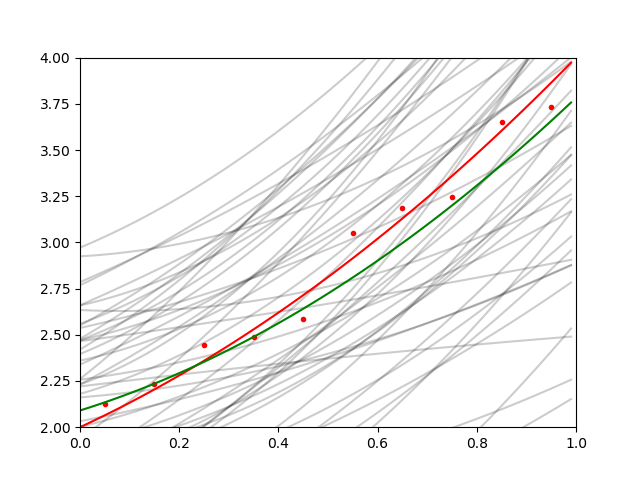
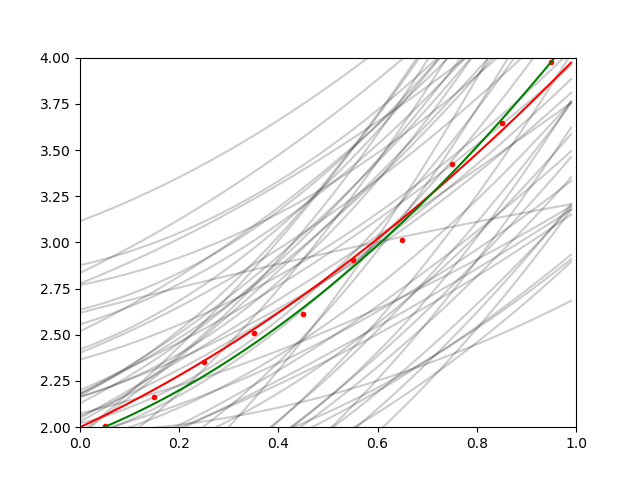
tidied up linear JSurf examples

diff --git a/linear_tests/genLinear_JSurface.py b/linear_tests/genLinear_JSurface.py
@@ -5,13 +5,36 @@ from genLinear import *
 
 import sys
 
-class linearModelEnsemble(linearModelEnsemble):
+class linearModelEnsemble_JSurf(linearModelEnsemble):
+
+    def __init__(self, coefs_truth, coefs_prior, uncert_prior, nens, nobs, obs_uncert ):
+        super().__init__( coefs_truth, coefs_prior, uncert_prior, nens, nobs, obs_uncert )
+        self.R_inv=self.get_R_inv()
+        self.B_inv=self.get_B_inv()
+
+    def surface_looper(self, range1, range2):
+        start,stop,step=range1
+        range1=np.arange(start,stop,step)
+        start,stop,step=range2
+        range2=np.arange(start,stop,step)
+        surf=np.zeros((len(range1),len(range2)))
+        for (n,i) in enumerate(range1):
+            for (m,j) in enumerate(range2):                
+                yield (n,m,i,j)       
     
-    def R_inv(self):
+    def get_blank_surface(self,range1, range2):
+        start,stop,step=range1
+        range1=np.arange(start,stop,step)
+        start,stop,step=range2
+        range2=np.arange(start,stop,step)
+        surf=np.zeros((len(range1),len(range2)))
+        return surf
+    
+    def get_R_inv(self):
         R_inv=np.eye(len(self.obs_y))*1./self.obs_uncert
         return R_inv
     
-    def B_inv(self):
+    def get_B_inv(self):
         B_inv=np.eye(len(self.uncert_prior))
         for i in range(len(self.uncert_prior)):
             B_inv[i,i]=1./self.uncert_prior[i]
@@ -21,77 +44,42 @@ class linearModelEnsemble(linearModelEnsemble):
         """get the value of the 4DVar cost function
         at position x
         """
-        R_inv=self.R_inv()
-        B_inv=self.B_inv()
-        
-        #background term
-        t1=np.matmul(B_inv, np.asarray(params)-np.asarray(self.coefs_prior))
+        #background term:
+        t1=np.matmul(self.B_inv, np.asarray(params)-np.asarray(self.coefs_prior))
         t1=np.matmul(np.asarray(params)-np.asarray(self.coefs_prior), t1)
-
-        #observation term
+        #observation term:
         hx=linearModel(params)
-        t2=np.matmul(R_inv, np.asarray(hx.eval(self.obs_x))-np.asarray(self.obs_y))
+        t2=np.matmul(self.R_inv, np.asarray(hx.eval(self.obs_x))-np.asarray(self.obs_y))
         t2=np.matmul(np.asarray(hx.eval(self.obs_x))-np.asarray(self.obs_y), t2)
-
         return((t1+t2)/2.)
     
     def get_JSurface_4DVar(self, dims=(0,1),range1=(0,2,0.1),range2=(0,2,0.1)):
-        
-        start,stop,step=range1
-        range1=np.arange(start,stop,step)
-        start,stop,step=range2
-        range2=np.arange(start,stop,step)
-        
-        surf=np.zeros((len(range1),len(range2)))
-        
-        for (n,i) in enumerate(range1):
-            for (m,j) in enumerate(range2):
-                params=copy(self.truth.coefs)
-                params[dims[0]]=i
-                params[dims[1]]=j
-                surf[n,m]=self.get_J_4DVar(params)
-                
+        surf=self.get_blank_surface(range1,range2)
+        for (n,m,i,j) in self.surface_looper(range1,range2):
+            params=copy(self.truth.coefs)
+            params[dims[0]]=i
+            params[dims[1]]=j
+            surf[n,m]=self.get_J_4DVar(params)
         return surf
-
 
     def get_JSurface_4DEnVar(self, data, dims=(0,1),range1=(0,2,0.1),range2=(0,2,0.1)):
-        
-        start,stop,step=range1
-        range1=np.arange(start,stop,step)
-        start,stop,step=range2
-        range2=np.arange(start,stop,step)
-        
-        surf=np.zeros((len(range1),len(range2)))
-        
-        for (n,i) in enumerate(range1):
-            for (m,j) in enumerate(range2):
+        surf=self.get_blank_surface(range1,range2)
+        for (n,m,i,j) in self.surface_looper(range1,range2):
+            params=copy(self.truth.coefs)
+            params[dims[0]]=i
+            params[dims[1]]=j
+            surf[n,m]=float(data.pop(0).split()[-1])                   
+        return surf
+
+    def write_JSurface_xeval_file(self, dims=(0,1),range1=(0,2,0.1),range2=(0,2,0.1)):
+        with open("0x_eval.dat","w") as f:
+            for (n,m,i,j) in self.surface_looper(range1,range2):
                 params=copy(self.truth.coefs)
                 params[dims[0]]=i
                 params[dims[1]]=j
-                surf[n,m]=float(data.pop(0).split()[-1])
-                    
-        return surf
-
-
-
-    def write_JSurface_xeval_file(self, dims=(0,1),range1=(0,2,0.1),range2=(0,2,0.1)):
-        
-        start,stop,step=range1
-        range1=np.arange(start,stop,step)
-        start,stop,step=range2
-        range2=np.arange(start,stop,step)
-        
-        surf=np.zeros((len(range1),len(range2)))
-    
-        with open("0x_eval.dat","w") as f:
-            for (n,i) in enumerate(range1):
-                for (m,j) in enumerate(range2):
-                    params=copy(self.truth.coefs)
-                    params[dims[0]]=i
-                    params[dims[1]]=j
-                    for k in range(len(params)):
-                        f.write("%f "%params[k])
-                    f.write("\n")
+                for k in range(len(params)):
+                    f.write("%f "%params[k])
+                f.write("\n")
 
     def plot_JSurface_compare(self, data, dims=(0,1),range1=(0,2,0.1),range2=(0,2,0.1)):
         
@@ -102,48 +90,33 @@ class linearModelEnsemble(linearModelEnsemble):
         maxmax = np.max([np.max(surf_4DEnVar), np.max(surf_4DVar)])    
     
         fig, (ax1, ax2) = plt.subplots(1, 2)
-        #fig.suptitle('Comparison of 4DVar and 4DEnVar error surfaces')
         
         ax1.imshow(surf_4DVar, cmap='tab20c', extent=[range1[0],range1[1],range2[0],range2[1]])
         ax1.set_title("4DVar") 
         ax2.imshow(surf_4DEnVar, cmap='tab20c', extent=[range1[0],range1[1],range2[0],range2[1]])
         ax2.set_title("4DEnVar") 
         
-        #ax1.imshow(surf_4DVar, vmin=minmin, vmax=maxmax, cmap='tab20c')
-        #ax2.imshow(surf_4DEnVar, vmin=minmin, vmax=maxmax, cmap='tab20c')
-        #plt.show()
         plt.savefig("jSurf_compare.png")
     
 if __name__=="__main__":
     import subprocess
 
     truth=[0.75,1.25,2.]
-    #coefs_truth, coefs_prior, uncert_prior, nens, nobs, obs_uncert
-    l=linearModelEnsemble(truth,[1.,1.,2.0],[0.5,0.5,0.5],50,10,0.1)
 
     #ranges for error surface calculation
     range1=(0.,2,0.01)
     range2=(0.,2,0.01)
 
-
-    #print(l.get_J_4DVar([0,0,0]))
-    #print(l.R_inv())
-    #print(l.B_inv())
-    #l.get_JSurface_4DVar(range1=range1,range2=range2)
-
+    #coefs_truth, coefs_prior, uncert_prior, nens, nobs, obs_uncert
+    l=linearModelEnsemble_JSurf(truth,[1.,1.,2.0],[0.5,0.5,0.5],50,10,0.1)
     
     l.write_files()
     l.write_JSurface_xeval_file(range1=range1,range2=range2)
     
     data=subprocess.run(["../4DEnVar_surf","0xb.dat","0hx.dat","0y.dat","0R.dat","0hxbar.dat","0x_eval.dat"],capture_output=True)
     data=data.stdout.decode("utf-8").rstrip().split("\n")
-    
-    #print(out[0])
-    #print(out[1])
-    
-    #l.get_JSurface_4DEnVar(data, range1=range1,range2=range2)
+        
     l.plot_JSurface_compare(data, range1=range1,range2=range2)
-
     
     #run the 4DEnVar via a subprocess
     out=subprocess.run(["../4DEnVar","0xb.dat","0hx.dat","0y.dat","0R.dat","0hxbar.dat"],capture_output=True)
@@ -154,10 +127,8 @@ if __name__=="__main__":
     for i in range(len(truth)):
         analysis.append(float(out[i]))
             
-    #print(analysis)
     plt.clf()
     l.plot(filename="jSurf_modelfit.png",analysis=analysis)
-    #l.plot(analysis=analysis)
 
     
     
